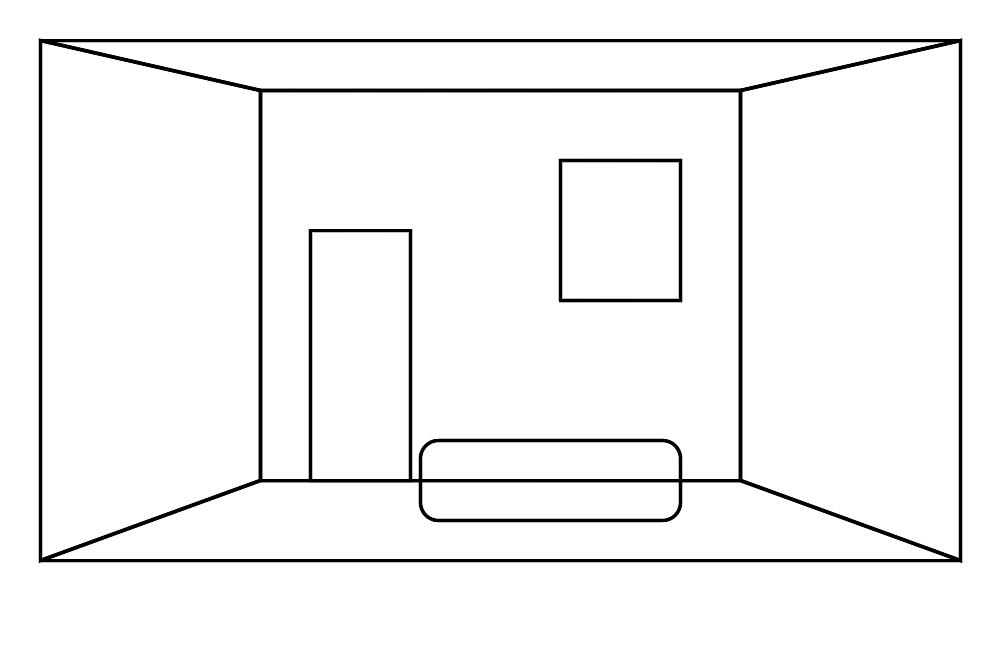
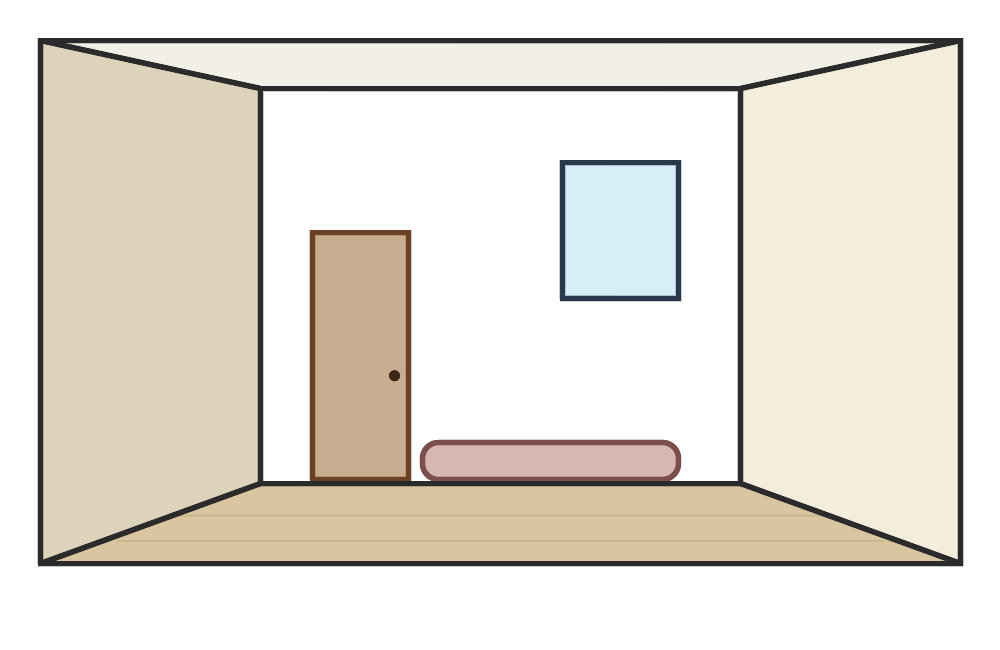
Revisa Pinta tu Estancia: plantillas más grandes y atractivas, arregla el 99% y el reinicio por resize (#182)
* No ofrecer "Ver" para un PDF externo por http:// (contenido mixto)

Reportado por Eloy: "Catálogo General TITANTECH" no cargaba en el
visor (se quedaba en blanco), aunque "Abrir" seguía funcionando en
pestaña nueva.

Causa confirmada en el sitio real (console del navegador): el enlace
es "http://" (sin cifrar), y la página siempre se sirve por "https://"
(GitHub Pages e IONOS) — los navegadores bloquean en silencio
cualquier iframe "http://" dentro de una página "https://" ("contenido
mixto"), sin ningún aviso visible más que en la consola. Pasar el
enlace a "https://" tampoco sirve en este caso: el dominio del
proveedor (ficheros.industriastitan.es) sí escucha en el 443, pero con
un certificado no válido, así que una carga seguiría fallando.

Como no hay forma real de embeber ese enlace concreto, esUrlPdf_() ya
no ofrece "Ver" cuando la página es https y el enlace es http — el
recurso se comporta como cualquier otra URL externa, con "Abrir" como
única acción (que sí funciona siempre, al ser una navegación de nivel
superior, no sujeta a esta restricción).

Verificado: la lógica aislada confirma las cuatro combinaciones
(https+http→sin Ver, https+https→Ver, http+cualquiera→Ver, para
cuando esta misma página se sirva alguna vez por http, donde el
problema no se daría). En el sitio real en producción, este enlace
concreto hoy muestra el botón "Ver" (versión aún sin este arreglo) y
el navegador confirma en consola el bloqueo exacto de "contenido
mixto" al pulsarlo.
[…]

diff --git a/lab/js/juego-pinturas.js b/lab/js/juego-pinturas.js
@@ -68,8 +68,15 @@
         piscina: {
             nombre: 'Piscina',
             icono: '🏊',
+            // wallAlpha más alto que el resto: el césped y el coping de
+            // alrededor de la piscina llevan ahora un relleno de color
+            // semitransparente (antes todo lo de fuera de la piscina era
+            // transparente sin más) — tiene que seguir contando como
+            // "no es pared" para que la inundación exterior lo atraviese
+            // y se pare justo en el borde de la piscina, su único límite
+            // real (no usa semillasExcluir).
             src: 'assets/sala-piscina.png',
-            wallAlpha: 60,
+            wallAlpha: 150,
             semillasExcluir: [],
         },
     };
@@ -122,11 +129,6 @@
     // Idéntico algoritmo que juego-taller.js — ver ahí la explicación
     // detallada de cada paso.
 
-    function alfaEn(datos, w, h, x, y, fueraDeLimites) {
-        if (x < 0 || y < 0 || x >= w || y >= h) return fueraDeLimites;
-        return datos[(y * w + x) * 4 + 3];
-    }
-
     function esCasiBlanco(datos, w, x, y) {
         const o = (y * w + x) * 4;
         return datos[o + 3] > 200 && datos[o] > 225 && datos[o + 1] > 225 && datos[o + 2] > 225;
@@ -161,6 +163,36 @@
     //    detalles, marcos, cojines...) donde enumerar cada hueco a
     //    excluir sería inabarcable: basta con sembrar la propia pared y
     //    la inundación se para sola en cualquier línea del dibujo.
+    // Máximo del canal alfa en la vecindad de 3x3 de cada píxel. Un
+    // trazo de línea casi cerrado puede dejar, por el antialiasing del
+    // propio PNG, un hueco de solo 1px donde dos segmentos casi se
+    // tocan — por ahí se "filtraba" la inundación exterior o excluida
+    // hacia dentro de una zona que debía quedar aislada, dejando una
+    // lengua de máscara pintable tan fina que nunca llegaba a
+    // cubrirse del todo (el "se queda en el 99% y no termina"
+    // reportado). Dilatar el alfa 1px antes de decidir qué cuenta como
+    // "pared" cierra esos huecos sin tocar el dibujo que se ve.
+    function construirAlfaDilatada(datos, w, h) {
+        const salida = new Uint8ClampedArray(w * h);
+        for (let y = 0; y < h; y++) {
+            for (let x = 0; x < w; x++) {
+                let maxA = 0;
+                for (let dy = -1; dy <= 1; dy++) {
+                    const ny = y + dy;
+                    if (ny < 0 || ny >= h) continue;
+                    for (let dx = -1; dx <= 1; dx++) {
+                        const nx = x + dx;
+                        if (nx < 0 || nx >= w) continue;
+                        const a = datos[(ny * w + nx) * 4 + 3];
+                        if (a > maxA) maxA = a;
+                    }
+                }
+                salida[y * w + x] = maxA;
+            }
+        }
+        return salida;
+    }
+
     function calcularMascaraPintable(img, cfg) {
         const w = img.naturalWidth, h = img.naturalHeight;
         const tmp = document.createElement('canvas');
@@ -169,8 +201,12 @@
         const tctx = tmp.getContext('2d');
         tctx.drawImage(img, 0, 0);
         const datos = tctx.getImageData(0, 0, w, h).data;
+        const alfaDilatada = construirAlfaDilatada(datos, w, h);
 
-        const esParedExterior = (x, y) => alfaEn(datos, w, h, x, y, 255) >= cfg.wallAlpha;
+        const esParedExterior = (x, y) => {
+            if (x < 0 || y < 0 || x >= w || y >= h) return true;
+            return alfaDilatada[y * w + x] >= cfg.wallAlpha;
+        };
 
         if (cfg.modoMascara === 'incluir') {
             const incluido = inundar(datos, w, h, cfg.semillasIncluir, esParedExterior);
@@ -181,9 +217,23 @@
             [[1, 1], [w - 2, 1], [1, h - 2], [w - 2, h - 2], [Math.floor(w / 2), 1]],
             esParedExterior);
 
+        // Los muebles/puertas/ventanas van ahora rellenos de color (antes
+        // eran solo un contorno transparente por dentro) para que las
+        // plantillas tengan mejor aspecto. Si se usara el mismo umbral
+        // wallAlpha(60) para "excluirlos", la semilla sembrada dentro de
+        // cada uno caería sobre su propio relleno opaco y la inundación
+        // nunca arrancaría — quedarían sin excluir y se podrían pintar
+        // por encima. Por eso el relleno de esas formas se dibuja con un
+        // alfa intermedio (bien por debajo de UMBRAL_EXCLUIR) y solo su
+        // contorno es opaco al 100%: la inundación de exclusión atraviesa
+        // el relleno y se para justo en el contorno.
+        const UMBRAL_EXCLUIR = 220;
         const esParedExcluir = cfg.exteriorExcluido
             ? (x, y) => !esCasiBlanco(datos, w, x, y)
-            : esParedExterior;
+            : (x, y) => {
+                if (x < 0 || y < 0 || x >= w || y >= h) return true;
+                return alfaDilatada[y * w + x] >= UMBRAL_EXCLUIR;
+            };
         const excluido = cfg.semillasExcluir.length
             ? inundar(datos, w, h, cfg.semillasExcluir, esParedExcluir)
             : new Uint8Array(w * h);
@@ -203,7 +253,7 @@
     // ── Encaje de la imagen en el canvas (estilo "contain", centrada) ──
 
     function calcularEncaje(imgW, imgH, canvasW, canvasH) {
-        const margen = 0.94;
+        const margen = 0.99;
         const escala = Math.min(canvasW / imgW, canvasH / imgH) * margen;
         const drawW = imgW * escala;
         const drawH = imgH * escala;
@@ -320,6 +370,24 @@
         lienzoVisible.height = h;
         reconstruirCapas();
         dibujarEscena();
+    }
+
+    // En móvil, mostrar/ocultar la barra de direcciones u otros paneles
+    // del navegador dispara un evento "resize" de window aunque el
+    // tamaño real del lienzo (que depende del ancho de su contenedor,
+    // no del alto del viewport) no haya cambiado. Sin esta comprobación,
+    // ajustarTamanoCanvas() volvía a crear capaPintura desde cero en
+    // cada uno de esos resizes espurios y se perdía todo lo pintado —
+    // el "se reinicia solo" reportado. Al cambiar de estancia se sigue
+    // llamando a ajustarTamanoCanvas() directamente (ver cargarEstancia),
+    // sin pasar por esta comprobación, así que ese caso no se ve afectado.
+    function alRedimensionarVentana() {
+        const rect = lienzoVisible.getBoundingClientRect();
+        const dpr = Math.min(window.devicePixelRatio || 1, 2);
+        const w = Math.round(rect.width * dpr);
+        const h = Math.round(rect.height * dpr);
+        if (w === lienzoVisible.width && h === lienzoVisible.height) return;
+        ajustarTamanoCanvas();
     }
 
     function dibujarEscena() {
@@ -654,7 +722,7 @@
 
     // ── Arranque ─────────────────────────────────────────────────────
 
-    window.addEventListener('resize', debounce(ajustarTamanoCanvas, 200));
+    window.addEventListener('resize', debounce(alRedimensionarVentana, 200));
 
     function debounce(fn, ms) {
         let t;

diff --git a/lab/js/juego-taller.js b/lab/js/juego-taller.js
@@ -113,11 +113,6 @@
 
     // ── Construcción de la máscara por inundación (flood fill) ─────────
 
-    function alfaEn(datos, w, h, x, y, fueraDeLimites) {
-        if (x < 0 || y < 0 || x >= w || y >= h) return fueraDeLimites;
-        return datos[(y * w + x) * 4 + 3];
-    }
-
     function esCasiBlanco(datos, w, x, y) {
         const o = (y * w + x) * 4;
         return datos[o + 3] > 200 && datos[o] > 225 && datos[o + 1] > 225 && datos[o + 2] > 225;
@@ -149,6 +144,36 @@
     // canvas). Un punto es pintable si: no es exterior del coche, no
     // cae en ninguna de las semillas de exclusión (cristales/llantas), y
     // —si el modelo lo pide— además es de color casi blanco.
+    // Máximo del canal alfa en la vecindad de 3x3 de cada píxel. Un
+    // trazo de línea casi cerrado puede dejar, por el antialiasing del
+    // propio PNG, un hueco de solo 1px donde dos segmentos casi se
+    // tocan — por ahí se "filtraba" la inundación exterior o excluida
+    // hacia dentro de una zona que debía quedar aislada, dejando una
+    // lengua de máscara pintable tan fina que nunca llegaba a
+    // cubrirse del todo (el "se queda en el 99% y no termina"
+    // reportado). Dilatar el alfa 1px antes de decidir qué cuenta como
+    // "pared" cierra esos huecos sin tocar el dibujo que se ve.
+    function construirAlfaDilatada(datos, w, h) {
+        const salida = new Uint8ClampedArray(w * h);
+        for (let y = 0; y < h; y++) {
+            for (let x = 0; x < w; x++) {
+                let maxA = 0;
+                for (let dy = -1; dy <= 1; dy++) {
+                    const ny = y + dy;
+                    if (ny < 0 || ny >= h) continue;
+                    for (let dx = -1; dx <= 1; dx++) {
+                        const nx = x + dx;
+                        if (nx < 0 || nx >= w) continue;
+                        const a = datos[(ny * w + nx) * 4 + 3];
+                        if (a > maxA) maxA = a;
+                    }
+                }
+                salida[y * w + x] = maxA;
+            }
+        }
+        return salida;
+    }
+
     function calcularMascaraPintable(img, cfg) {
         const w = img.naturalWidth, h = img.naturalHeight;
         const tmp = document.createElement('canvas');
@@ -157,8 +182,12 @@
         const tctx = tmp.getContext('2d');
         tctx.drawImage(img, 0, 0);
         const datos = tctx.getImageData(0, 0, w, h).data;
+        const alfaDilatada = construirAlfaDilatada(datos, w, h);
 
-        const esParedExterior = (x, y) => alfaEn(datos, w, h, x, y, 255) >= cfg.wallAlpha;
+        const esParedExterior = (x, y) => {
+            if (x < 0 || y < 0 || x >= w || y >= h) return true;
+            return alfaDilatada[y * w + x] >= cfg.wallAlpha;
+        };
         const exterior = inundar(datos, w, h,
             [[1, 1], [w - 2, 1], [1, h - 2], [w - 2, h - 2], [Math.floor(w / 2), 1]],
             esParedExterior);
@@ -312,6 +341,24 @@
         lienzoVisible.height = h;
         reconstruirCapas();
         dibujarEscena();
+    }
+
+    // En móvil, mostrar/ocultar la barra de direcciones u otros paneles
+    // del navegador dispara un evento "resize" de window aunque el
+    // tamaño real del lienzo (que depende del ancho de su contenedor,
+    // no del alto del viewport) no haya cambiado. Sin esta comprobación,
+    // ajustarTamanoCanvas() volvía a crear capaPintura desde cero en
+    // cada uno de esos resizes espurios y se perdía todo lo pintado —
+    // el "se reinicia solo" reportado. Al cambiar de vehículo se sigue
+    // llamando a ajustarTamanoCanvas() directamente (ver cargarVehiculo),
+    // sin pasar por esta comprobación, así que ese caso no se ve afectado.
+    function alRedimensionarVentana() {
+        const rect = lienzoVisible.getBoundingClientRect();
+        const dpr = Math.min(window.devicePixelRatio || 1, 2);
+        const w = Math.round(rect.width * dpr);
+        const h = Math.round(rect.height * dpr);
+        if (w === lienzoVisible.width && h === lienzoVisible.height) return;
+        ajustarTamanoCanvas();
     }
 
     // ── Composición final de cada fotograma ─────────────────────────────
@@ -836,7 +883,7 @@
 
     // ── Arranque ─────────────────────────────────────────────────────
 
-    window.addEventListener('resize', debounce(ajustarTamanoCanvas, 200));
+    window.addEventListener('resize', debounce(alRedimensionarVentana, 200));
 
     function debounce(fn, ms) {
         let t;
